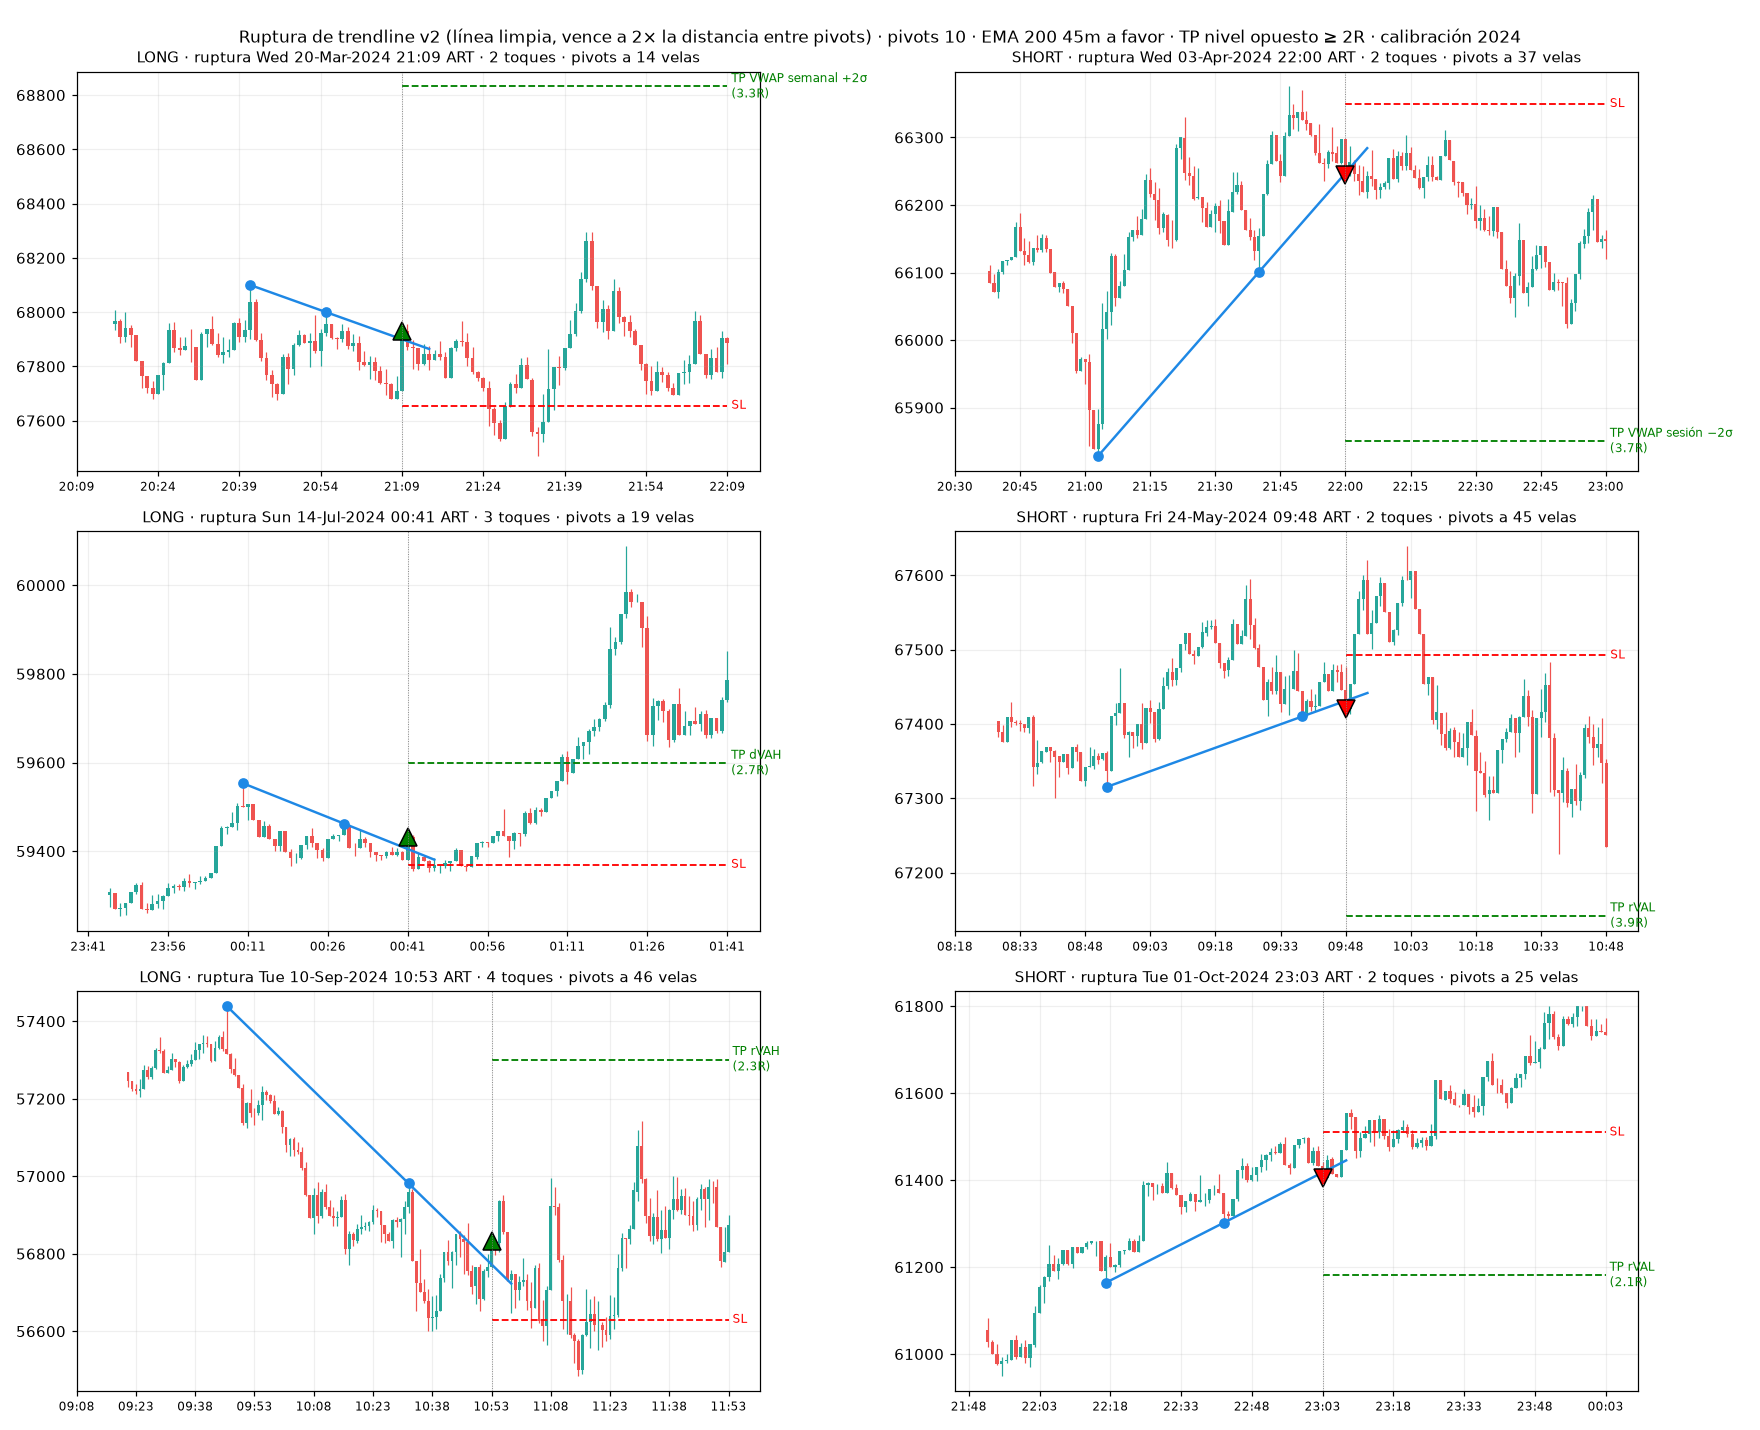
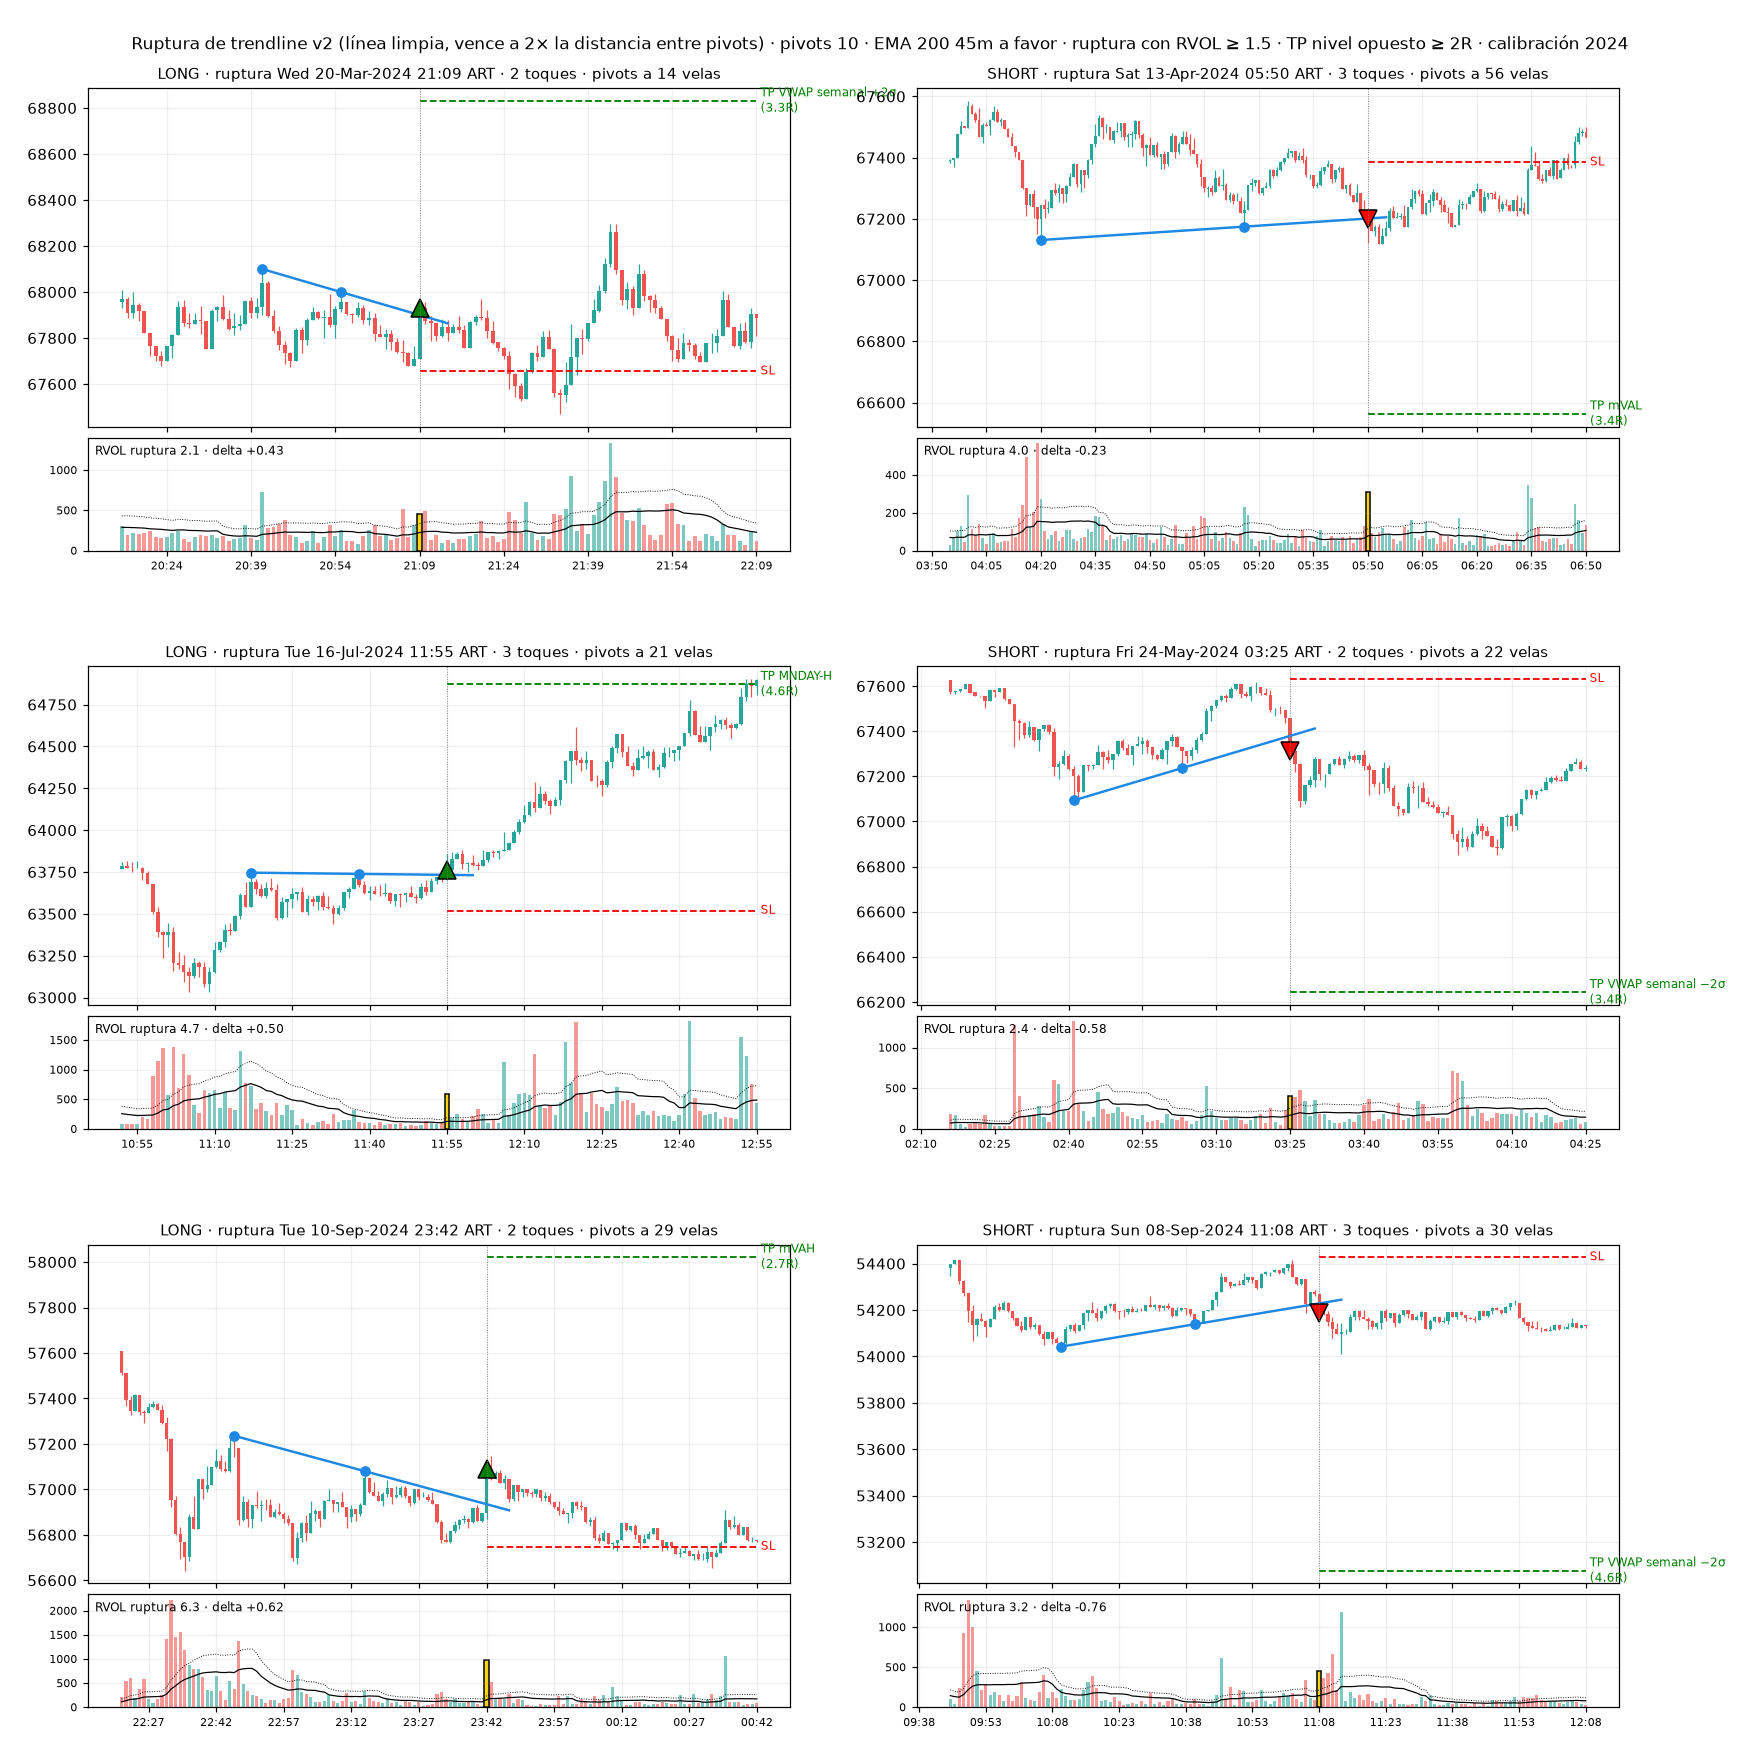
Trendlines: ruptura con volumen (RVOL ≥ 1,5) y panel de volumen en los ejemplos
Claude-Session: https://claude.ai/code/session_01TptqUBf26HVNXBZJoXLjov

diff --git a/src/trendlines_grafico.py b/src/trendlines_grafico.py
@@ -20,7 +20,7 @@ import polars as pl
 import a_tp_nivel as atn
 import indicadores as ind
 from f3_correr import filtro_ema45
-from trendlines import senales_tl
+from trendlines import RVOL_MIN, senales_tl
 
 RAIZ = Path(__file__).resolve().parent.parent
 OUT = RAIZ / "reports" / "trendlines"
@@ -36,16 +36,22 @@ def velas(ax, x, o, h, l, c):
     ax.bar(x, np.maximum(np.abs(c - o), 1e-9), bottom=np.minimum(o, c), color=col, width=0.7)
 
 
-def main(desde: str = "2024-01", hasta: str = "2024-12", n: int = 10, cuantos: int = 6, semilla: int = 7) -> None:
+def main(desde: str = "2024-01", hasta: str = "2024-12", n: int = 10, cuantos: int = 6, semilla: int = 7,
+         rvol_min: float | None = RVOL_MIN) -> None:
     atn.NIV = atn.NIV + ["mVAH_vivo", "mVAL_vivo", "rVAH", "rVAL"]
-    s = senales_tl(desde, hasta, n, v2=True)
+    s = senales_tl(desde, hasta, n, v2=True, rvol_min=rvol_min)
     s = atn.con_tp(filtro_ema45(s, desde).drop("tp"), desde, hasta)
     rng = np.random.default_rng(semilla)
     elegidas = pl.concat([s.filter(pl.col("lado") == ld).sample(cuantos // 2, seed=int(rng.integers(1e9))) for ld in ("long", "short")])
-    df = ind.cargar(desde, hasta).select("open_time", "open", "high", "low", "close").sort("open_time")
+    df = ind.cargar(desde, hasta).select("open_time", "open", "high", "low", "close", "volume").sort("open_time")
+    vma = df["volume"].rolling_mean(20).to_numpy()
     t = df["open_time"].to_numpy()
-    fig, axs = plt.subplots(cuantos // 2, 2, figsize=(16, 4.6 * cuantos // 2))
-    for ax, f in zip(axs.T.ravel(), elegidas.sort("lado", "open_time").iter_rows(named=True)):
+    fig = plt.figure(figsize=(16, 5.6 * cuantos // 2))
+    gs = fig.add_gridspec(cuantos // 2, 2)
+    celdas = [gs[r, col].subgridspec(2, 1, height_ratios=(3, 1), hspace=0.05) for col in range(2) for r in range(cuantos // 2)]
+    for cel, f in zip(celdas, elegidas.sort("lado", "open_time").iter_rows(named=True)):
+        ax, av = fig.add_subplot(cel[0]), None
+        av = fig.add_subplot(cel[1], sharex=ax)
         i1, i2, ib = (int(np.searchsorted(t, f[k])) for k in ("t_piv1", "t_piv2", "open_time"))
         a, b = max(i1 - 25, 0), min(ib + 60, t.size - 1)
         x = np.arange(a, b + 1) - ib
@@ -66,17 +72,25 @@ def main(desde: str = "2024-01", hasta: str = "2024-12", n: int = 10, cuantos: i
         hora = dt.datetime.fromtimestamp(f["open_time"] / 1000, ART).strftime("%a %d-%b-%Y %H:%M ART")
         ax.set_title(f"{f['lado'].upper()} · ruptura {hora} · {f['toques']} toques · pivots a {i2 - i1} velas", fontsize=10)
         tk = np.arange(x[0] - x[0] % 15, x[-1] + 1, 15)
-        ax.set_xticks(tk, [dt.datetime.fromtimestamp(t[min(k + ib, t.size - 1)] / 1000, ART).strftime("%H:%M") for k in tk], fontsize=8)
+        av.set_xticks(tk, [dt.datetime.fromtimestamp(t[min(k + ib, t.size - 1)] / 1000, ART).strftime("%H:%M") for k in tk], fontsize=8)
         lo = min(df["low"][a:b + 1].min(), f["sl"], f["tp"])
         hi = max(df["high"][a:b + 1].max(), f["sl"], f["tp"])
         ax.set_ylim(lo - 0.04 * (hi - lo), hi + 0.04 * (hi - lo))
         ax.grid(alpha=0.2)
+        o_, c_, v_ = (df[k].to_numpy()[a:b + 1] for k in ("open", "close", "volume"))
+        av.bar(x, v_, color=np.where(c_ >= o_, "#26a69a", "#ef5350"), width=0.7, alpha=0.6)
+        av.bar([0], [v_[ib - a]], color="gold", edgecolor="k", width=0.9)
+        av.plot(x, vma[a:b + 1], color="k", lw=0.8)
+        av.plot(x, (rvol_min or 1.5) * vma[a:b + 1], color="k", lw=0.6, ls=":")
+        av.text(0.01, 0.85, f"RVOL ruptura {f['rvol']:.1f} · delta {f['delta1']:+.2f}", transform=av.transAxes, fontsize=8)
+        av.tick_params(labelsize=7); av.grid(alpha=0.2)
+        plt.setp(ax.get_xticklabels(), visible=False)
     fig.suptitle("Ruptura de trendline v2 (línea limpia, vence a 2× la distancia entre pivots) · pivots 10 · EMA 200 45m a favor · "
-                 "TP nivel opuesto ≥ 2R · calibración 2024", fontsize=11)
-    fig.tight_layout()
+                 f"ruptura con RVOL ≥ {rvol_min} · TP nivel opuesto ≥ 2R · calibración 2024", fontsize=11)
+    fig.subplots_adjust(left=0.05, right=0.92, top=0.95, bottom=0.03, hspace=0.25, wspace=0.18)
     OUT.mkdir(parents=True, exist_ok=True)
     fig.savefig(OUT / "ejemplos_v2.png", dpi=110)
-    print(elegidas.select("open_time", "lado", "close", "sl", "tp", "toques"))
+    print(elegidas.select("open_time", "lado", "close", "sl", "tp", "toques", "rvol", "delta1"))
 
 
 if __name__ == "__main__":

diff --git a/src/trendlines.py b/src/trendlines.py
@@ -22,6 +22,7 @@ from numba import njit
 import indicadores as ind
 import motor
 import senales
+from datos import leer_velas_1m
 from f3_correr import SL_MARGEN_ATR, filtro_ema45
 from nuevas_mr import COLS, met
 
@@ -155,8 +156,17 @@ def rupturas_v2(h, l, c, atr, n, vida, tol):
 VIDA, TOL = 2.0, 0.15   # v2: vence a 2× la distancia entre pivots · toque = mecha a ≤ 0,15 ATR de la línea
 
 
-def senales_tl(desde: str, hasta: str, n: int, v2: bool = False) -> pl.DataFrame:
-    df = ind.cargar(desde, hasta).select("open_time", "high", "low", "close", "atr14").sort("open_time")
+RVOL_MIN = 1.5          # v2 con volumen (Juan 2026-10-02): la vela que rompe con RVOL ≥ 1,5 (umbral del ASH)
+
+
+def senales_tl(desde: str, hasta: str, n: int, v2: bool = False, rvol_min: float | None = None,
+               delta_favor: bool = False) -> pl.DataFrame:
+    """rvol_min: RVOL (volumen / SMA 20) mínimo de la vela que rompe. delta_favor: además, compras − ventas taker de esa
+    vela a favor de la ruptura."""
+    df = ind.cargar(desde, hasta).select("open_time", "high", "low", "close", "atr14", "volume", "rvol").sort("open_time")
+    tk = leer_velas_1m(desde, hasta).select("open_time", "taker_buy_volume")
+    df = df.join(tk, on="open_time", how="left").with_columns(
+        delta1=(2 * pl.col("taker_buy_volume") - pl.col("volume")) / pl.col("volume")).drop("taker_buy_volume")
     hlc = [df[x].to_numpy() for x in ("high", "low", "close")]
     if v2:
         r, lin, i1, i2, tq = rupturas_v2(*hlc, df["atr14"].to_numpy(), n, VIDA, TOL)
@@ -169,11 +179,15 @@ def senales_tl(desde: str, hasta: str, n: int, v2: bool = False) -> pl.DataFrame
                          en_ventana=senales.ventana_operativa(pl.col("open_time")))
     s = df.filter((pl.col("rup") != 0) & pl.col("en_ventana")).with_columns(
         lado=pl.when(pl.col("rup") > 0).then(pl.lit("long")).otherwise(pl.lit("short")))
+    if rvol_min is not None:
+        s = s.filter(pl.col("rvol") >= rvol_min)
+    if delta_favor:
+        s = s.filter(pl.col("delta1") * pl.col("rup") > 0)
     return s.with_columns(
         sl=pl.when(pl.col("lado") == "long").then(pl.col("min10") - SL_MARGEN_ATR * pl.col("atr14"))
         .otherwise(pl.col("max10") + SL_MARGEN_ATR * pl.col("atr14")),
         tp=pl.lit(None, dtype=pl.Float64), tipo=pl.lit(f"TL{n}"), z_favor=pl.lit(0.0), cruces_ash30=pl.lit(0),
-        rvol=pl.lit(0.0), dist5m_atr=pl.lit(0.0))
+        dist5m_atr=pl.lit(0.0))
 
 
 def main() -> None:

diff --git a/DECISIONES.md b/DECISIONES.md
@@ -163,3 +163,6 @@ con y sin · variantes de calendario A–D.
   pivots confirmados, una por lado) más (1) línea limpia: si un cierre ya la cruzó entre el pivot 1 y la confirmación
   del pivot 2, no da señal; (2) vence a 2× la distancia entre pivots después del pivot 2; (3) toques = episodios con la
   mecha a ≤ 0,15 ATR de la línea (informativo). Ejemplos en `reports/trendlines/ejemplos_v2.png`. Juan valida el trazado.
+- [2026-10-02] PENDIENTE · Trendlines con volumen (Juan: "cuando rompe debe ser con volumen"): la vela de 1m que cierra
+  del otro lado de la línea tiene RVOL (volumen / SMA 20, el del ASH) ≥ 1,5. Variantes a calibrar: 1,5 / 2,5 y
+  además delta taker de la vela a favor. Ejemplos con panel de volumen en `reports/trendlines/ejemplos_v2.png`.

diff --git a/BITACORA.md b/BITACORA.md
@@ -383,3 +383,6 @@
 - Trendlines v2: en ene–mar 2024 con pivots de 10 quedan 2019 rupturas de 2847 (−29 %): la regla de línea limpia saca
   ~25 % (líneas que nacieron rotas) y el vencimiento a 2× otro ~4 %. Con pivots de 20: 1015 de 1563. Sin resultados
   todavía: primero Juan revisa el dibujo (`src/trendlines_grafico.py`).
+- Trendlines v2 + volumen: en la ventana operativa de ene–mar 2024 (pivots 10) hay 1406 rupturas; con RVOL ≥ 1,5 quedan
+  427 (30 %), con ≥ 2,5 quedan 187. Exigir además delta a favor casi no saca nada (411 de 427): las rupturas con
+  volumen ya vienen con agresión a favor.
